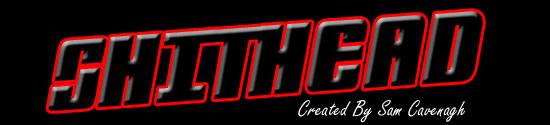
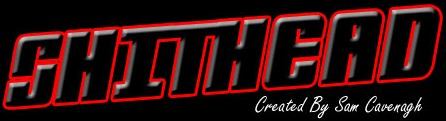
(upscale) Scale Burnt image and Title image.

diff --git a/SHinterface.java b/SHinterface.java
@@ -1,15 +1,12 @@
 import java.awt.*;
 import java.awt.Color;
 import java.awt.event.*;
-import java.awt.geom.*;
 import java.awt.image.*;
 import java.io.IOException;
 import javax.swing.*;
 
-// TODO(release) burnt image needs offset
 // TODO(release) Dialogs (e.g. MultiCardD) should appear in the center
 // TODO Set scaling based on resolution
-// TODO(release) image scaling is bad
 // TODO graphical way of indicating hand sizes
 
 /*-------------------------------
@@ -107,6 +104,26 @@ class SHinterface extends JFrame
     return new Rectangle(scale(arg0), scale(arg1), scale(arg2), scale(arg3));
   }
 
+  Point getCoordsForCentredImage(BufferedImage img) {
+    // Play area is a 450x450 square, with Hand area below it.
+    int canvasSize = scale(450);
+
+    int x = (int)(((double)canvasSize / 2) - ((double)img.getWidth() / 2));
+    int y = (int)(((double)canvasSize / 2) - ((double)img.getHeight() / 2));
+
+    return new Point(x,y);
+  }
+
+  void drawTitle() {
+    g.setColor(Color.black);
+    g.fillRect(0, 0, scale(450), scale(550));
+
+    BufferedImage title = imageManager.getTitle();
+
+    Point xy = getCoordsForCentredImage(title);
+    g.drawImage(title, xy.x, xy.y, this);
+  }
+
   SHinterface() {
     try {
       imageManager = new ImageManager(this);
@@ -116,8 +133,7 @@ class SHinterface extends JFrame
 
     offscreen = new BufferedImage(scale(450), scale(550), BufferedImage.TYPE_3BYTE_BGR);
     g = offscreen.getGraphics();
-    // TODO scale this properly (assumes 1.5 atm)
-    g.drawImage(imageManager.getTitle(), 75, 250, this);
+    drawTitle();
     g.setColor(Color.white);
     g.drawLine(0, scale(450), scale(450), scale(450));
 

diff --git a/ImageManager.java b/ImageManager.java
@@ -2,8 +2,6 @@ import java.awt.AlphaComposite;
 import java.awt.Graphics2D;
 import java.awt.MediaTracker;
 import java.awt.RenderingHints;
-import java.awt.geom.AffineTransform;
-import java.awt.image.AffineTransformOp;
 import java.awt.image.BufferedImage;
 import java.io.IOException;
 import java.util.ArrayList;
@@ -27,6 +25,7 @@ public class ImageManager {
   private static final int baseCardHeight = 99;
 
   private int cardWidth, cardHeight;
+  private double scaleFactor;
 
   // These are in the same numbered order as the other SH code.
   // suits: 1-4
@@ -39,6 +38,7 @@ public class ImageManager {
 
     cardWidth = sh.scale(baseCardWidth);
     cardHeight = sh.scale(baseCardHeight);
+    scaleFactor = sh.scaleFactor;
 
     // List of files to load
     ArrayList<String> files = new ArrayList<String>();
@@ -72,11 +72,11 @@ public class ImageManager {
   }
 
   BufferedImage getTitle() {
-    return getImage(titleFilename);
+    return getScaledImage(titleFilename, 1 + (scaleFactor - 1) * .5);
   }
 
   BufferedImage getBurnt() {
-    return getImage(burntFilename);
+    return getScaledImage(burntFilename, scaleFactor);
   }
 
   BufferedImage getCardBack() {
@@ -112,6 +112,11 @@ public class ImageManager {
 
   private BufferedImage getImage(String filename) {
     return images.get(filename);
+  }
+
+  private BufferedImage getScaledImage(String filename, double scale) {
+    BufferedImage img = getImage(filename);
+    return resize(img, (int)(img.getWidth() * scale), (int)(img.getHeight() * scale));
   }
 
   // Return a rotated copy of the image (clockwise 90 degrees)

diff --git a/Dealer.java b/Dealer.java
@@ -505,8 +505,11 @@ class Dealer {
         pile[0].drawSideWays2((int) centre1.getX() - 15, (int) centre1.getY() + 60);
       }
     } else if (burnt) {
-      // TODO scale up image by 1.5x
-      drawImage(im.getBurnt(), 130, 190);
+      // TODO duplicate code
+      BufferedImage burnBang = im.getBurnt();
+      // Draw in centre of play area
+      Point xy = sh.getCoordsForCentredImage(burnBang);
+      g.drawImage(burnBang, xy.x, xy.y, sh);
       burnt = false;
     }
     g.drawImage(

diff --git a/Player.java b/Player.java
@@ -323,8 +323,10 @@ class Player {
         pile[0].drawSideWays2((int) centre1.getX() - 15, (int) centre1.getY() + 60);
       }
     } else if (burnt) {
-      // TODO scale 1.5x
-      drawImage(im.getBurnt(), 130, 190);
+      BufferedImage burnBang = im.getBurnt();
+      // Draw in centre of play area. Coords are already scaled
+      Point xy = sh.getCoordsForCentredImage(burnBang);
+      g.drawImage(burnBang, xy.x, xy.y, sh);
       burnt = false;
     }
     g.drawImage(
